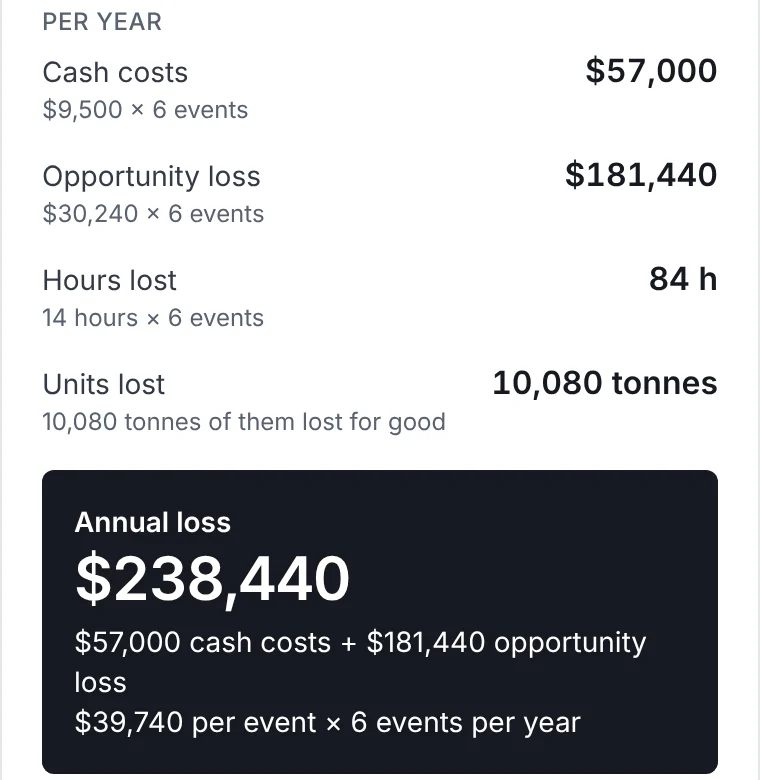
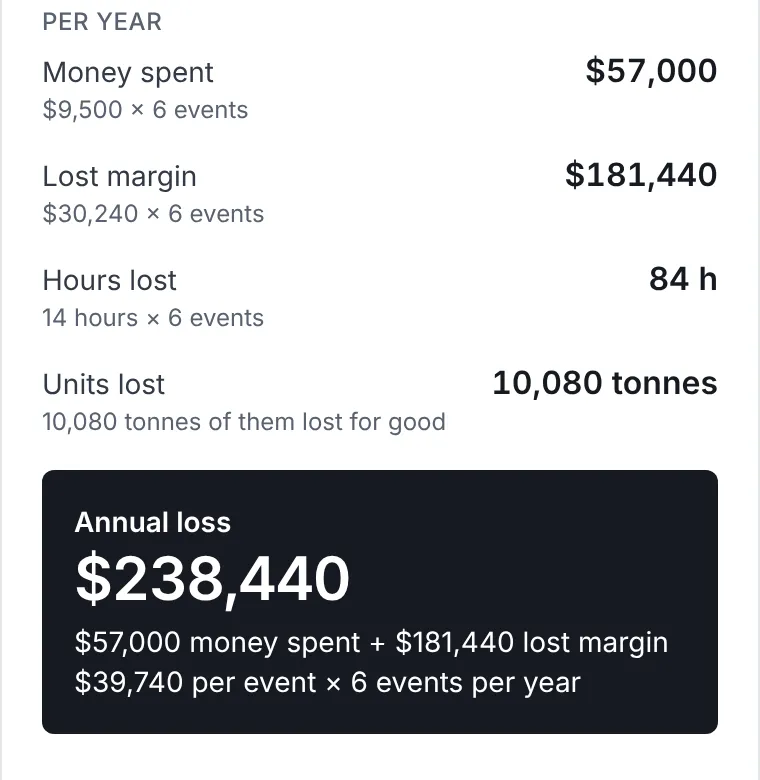
Retake landing images with new money labels; tidy wording, QA scripts, comments
Re-shot step-cost and step-verify from the sample investigation (same
size, crop, scale and format). Reworded the Other costs help text. Updated
qa/account.js and qa/demo.js assertions and code comments to the new terms.

Claude-Session: https://claude.ai/code/session_01B1Dz9UYZnVuDwjoWekutHf

Changed region(s): [[0.0303, 0.8, 0.9684, 1.0], [0.0605, 0.0615, 0.2724, 0.1231], [0.0605, 0.2154, 0.3632, 0.2462]]

diff --git a/qa/account.js b/qa/account.js
@@ -424,21 +424,21 @@ test('A-LOSS-1', 'Signed in: the new loss fields persist in the account and carr
     const v = async (k) => Number(await page.getByLabel(k + ' percent', { exact: true }).inputValue()); eq([await v('Lost for good'), await v('Made up later'), await v('Covered by buffer stock')], [48, 32, 20]);
     eq(await page.getByLabel('Recovery note (optional)').inputValue(), 'two Saturdays'); eq(await page.getByTestId('other-cost-line').count(), 2); eq(await page.getByTestId('annual-loss').innerText(), '$20,462');
   });
-  await sub('verify-report', 'Verify and Report show expected saving $12,641 (cash $8,801 + opportunity $3,840), payback 4.7 months', async () => {
-    await step(page, 'Verify'); const t = (await page.locator('dl').last().innerText()).replace(/\s+/g, ' ').toLowerCase(); ok(t.includes('expected saving (not yet verified) $12,641') && t.includes('cash $8,801 · opportunity $3,840') && t.includes('4.7 months'), t);
-    const r = (await e.reportText(page)).toLowerCase(); ok(r.includes('cash costs $2,200 $14,702') && r.includes('opportunity loss (240 units lost for good'.replace('units', 'pcs') + ' × $4) $960 $5,760') && r.includes('total $3,160 $20,462'), r.slice(0, 600));
+  await sub('verify-report', 'Verify and Report show expected saving $12,641 (money spent $8,801 + lost margin $3,840), payback 4.7 months', async () => {
+    await step(page, 'Verify'); const t = (await page.locator('dl').last().innerText()).replace(/\s+/g, ' ').toLowerCase(); ok(t.includes('expected saving (not yet verified) $12,641') && t.includes('money spent $8,801 · lost margin $3,840') && t.includes('4.7 months'), t);
+    const r = (await e.reportText(page)).toLowerCase(); ok(r.includes('money spent $2,200 $14,702') && r.includes('lost margin (240 units lost for good'.replace('units', 'pcs') + ' × $4) $960 $5,760') && r.includes('total $3,160 $20,462'), r.slice(0, 600));
   });
   const num = (t) => Number((/\$([\d,]+)/.exec(t) || [0, '0'])[1].replace(/,/g, ''));
-  const split = (t) => { const m = /Cash \$([\d,]+) · Opportunity \$([\d,]+)/.exec(t); return m ? [Number(m[1].replace(/,/g, '')), Number(m[2].replace(/,/g, ''))] : [0, 0]; };
+  const split = (t) => { const m = /Money spent \$([\d,]+) · Lost margin \$([\d,]+)/.exec(t); return m ? [Number(m[1].replace(/,/g, '')), Number(m[2].replace(/,/g, ''))] : [0, 0]; };
   const tiles = async () => { await page.goto(BASE + '/app'); await e.dashStats(page); return page.evaluate(() => [...document.querySelectorAll('section[aria-label="Totals"] > div')].map(d => d.innerText.replace(/\s+/g, ' '))); };
   await sub('dashboard', 'Account dashboard: the S3 row is $20,462 with split $14,702 / $5,760; the loss tile rises by exactly that; verified tile does not change until closed', async () => {
-    const after = await tiles(); const row = (await e.dashRows(page)).find(x => x.includes('LOSS-S3')); ok(row.includes('$20,462') && row.includes('Cash $14,702 · Opportunity $5,760'), row);
+    const after = await tiles(); const row = (await e.dashRows(page)).find(x => x.includes('LOSS-S3')); ok(row.includes('$20,462') && row.includes('Money spent $14,702 · Lost margin $5,760'), row);
     // baseline = tiles with the S3 investigation removed from the maths: compare against a second read after deleting nothing is impossible, so use the row-sum identity
-    const rows = await e.dashRows(page); let openSum = 0; for (const r of rows) { if (/Closed/.test(r)) continue; const m = /\$([\d,]+) Cash/.exec(r); if (m) openSum += Number(m[1].replace(/,/g, '')); }
-    eq(num(after[0]), openSum, 'loss tile = sum of non-closed row annual losses'); eq(split(after[0])[0] + split(after[0])[1], num(after[0]), 'cash + opportunity = tile'); ok(after[0].includes('$'), after[0]);
+    const rows = await e.dashRows(page); let openSum = 0; for (const r of rows) { if (/Closed/.test(r)) continue; const m = /\$([\d,]+) Money spent/.exec(r); if (m) openSum += Number(m[1].replace(/,/g, '')); }
+    eq(num(after[0]), openSum, 'loss tile = sum of non-closed row annual losses'); eq(split(after[0])[0] + split(after[0])[1], num(after[0]), 'money spent + lost margin = tile'); ok(after[0].includes('$'), after[0]);
     h.note('observation', 'A-LOSS-1 tiles before closing: ' + after.join(' | ')); globalThis.__savedBefore = [num(after[3]), ...split(after[3])];
   });
-  await sub('close-dashboard', 'After closing S3 the verified tile rises by exactly $12,641 (cash +$8,801, opportunity +$3,840) and the loss tile drops by $20,462', async () => {
+  await sub('close-dashboard', 'After closing S3 the verified tile rises by exactly $12,641 (money spent +$8,801, lost margin +$3,840) and the loss tile drops by $20,462', async () => {
     const before = globalThis.__savedBefore; const lossBefore = num((await tiles())[0]);
     await page.goto(BASE + '/app/investigations/' + id); await page.getByLabel('Title', { exact: true }).waitFor(); await step(page, 'Actions'); await f.setActionStatus(page, 0, 'Done');
     await f.fillVerify(page, { date: '2026-11-10', recurred: 'No, it has not recurred' }); await waitSaved(page); const t = await tiles();

diff --git a/qa/demo.js b/qa/demo.js
@@ -185,13 +185,13 @@ test('D-E2E-1', 'Full flow: new investigation, 7 steps, hand-checked numbers, da
   await sub('report', 'Report content matches data and hand-calculated figures', async () => {
     has(e.PROBLEM.title); has('Conveyor C-7 gearbox · Packing hall B · Event on 20 Oct 2026'); has('Status: Closed');
     has('Annual loss ' + money(calc.annual)); has('Annual saving (verified) ' + money(calc.saving)); has('Action cost ' + money(calc.actionCost)); has('Payback ' + e.months(calc.payback));
-    // round 2 report format (loss table). Hand calc: 660 cartons/event, 100% lost for good -> opportunity 660 x 2.5 = 1,650/event = 6,600/yr; cash = repair 1,800/event = 7,200/yr
+    // round 2 report format (loss table). Hand calc: 660 cartons/event, 100% lost for good -> lost margin 660 x 2.5 = 1,650/event = 6,600/yr; money spent = repair 1,800/event = 7,200/yr
     has('Each event stops production for 5.5 h at 120 cartons/h, so 660 cartons are not produced'); has('100% is lost for good, 0% is made up later and 0% is covered by buffer stock');
-    has('Cash: repair $1,800 $7,200'); has('Cash costs $1,800 $7,200'); has('Opportunity loss (660 cartons lost for good × $2.5) $1,650 $6,600'); has('Total $3,450 $13,800'); has('$13,800 per year in total');
+    has('Money spent: repair $1,800 $7,200'); has('Money spent $1,800 $7,200'); has('Lost margin (660 cartons lost for good × $2.5) $1,650 $6,600'); has('Total $3,450 $13,800'); has('$13,800 per year in total');
     for (const x of ['Oil sample report', 'Operator interview', 'Alignment check', 'Gearbox oil starved', 'Oil level not checked on rounds', 'Inspection route has no gearbox oil check', 'Coupling misaligned', 'No alignment spec in install procedure', 'Wrong grease used', 'Grease type not on lubrication chart']) has(x);
     has('Add gearbox oil check to daily route'); has('Sam Patel'); has('10 Jan 2026'); has('1 Mar 2027'); has('$1,200'); has('$951'); has('Total $2,151');
     has('Review date 10 Nov 2026'); has('No repeat in 3 weeks.');
-    has('Annual loss falls from $13,800 to $3,450: a saving of $10,350 per year (cash $5,400, opportunity $4,950) for an action cost of $2,151, paid back in 2.5 months'); ok(!repL.includes('not yet verified'), 'closed investigation still says not yet verified');
+    has('Annual loss falls from $13,800 to $3,450: a saving of $10,350 per year (money spent $5,400, lost margin $4,950) for an action cost of $2,151, paid back in 2.5 months'); ok(!repL.includes('not yet verified'), 'closed investigation still says not yet verified');
     eq(await page.locator('article.print-sheet h2:has-text("Root causes") + ol li').count(), 2, 'root cause list');
   });
   await sub('report-ruledout', 'Report marks ruled-out cause and category/evidence tags', async () => {

diff --git a/web/lib/finance.ts b/web/lib/finance.ts
@@ -93,25 +93,25 @@ export interface LossCalc {
   /** units never made up per year */
   unitsLostForGoodPerYear: number;
 
-  /** cash cost lines per event */
+  /** money spent lines per event */
   repairPerEvent: number;
   recoveryPerEvent: number;
   otherPerEvent: number;
-  /** cash per event = repair + recovery + other lines */
+  /** money spent per event = repair + recovery + other lines */
   cashPerEvent: number;
-  /** opportunity loss per event = units lost for good x margin per unit */
+  /** lost margin per event = units lost for good x margin per unit */
   lostMarginPerEvent: number;
   opportunityPerEvent: number;
-  /** total cost of one event = cash + opportunity (buffer holding is yearly, see below) */
+  /** total cost of one event = money spent + lost margin (buffer holding is yearly, see below) */
   costPerEvent: number;
 
   /** yearly cost of holding buffer stock (0 unless some production is covered by buffer) */
   bufferHoldingPerYear: number;
-  /** annual cash costs = cash per event x events + buffer holding */
+  /** annual money spent = money spent per event x events + buffer holding */
   annualCash: number;
-  /** annual opportunity loss = opportunity per event x events */
+  /** annual lost margin = lost margin per event x events */
   annualOpportunity: number;
-  /** annual loss = annual cash + annual opportunity (or the rough yearly estimate when nothing else costs a year) */
+  /** annual loss = annual money spent + annual lost margin (or the rough yearly estimate when nothing else costs a year) */
   annualLoss: number;
   /** true when annualLoss is the user's single rough yearly estimate, not built from the detailed figures */
   usesEstimate: boolean;
@@ -249,7 +249,7 @@ export interface VerifyCalc {
   annualLossBefore: number;
   annualLossAfter: number;
   annualSaving: number;
-  /** the same three figures, split into cash costs and opportunity loss */
+  /** the same three figures, split into money spent and lost margin */
   cashBefore: number;
   cashAfter: number;
   cashSaving: number;
@@ -354,7 +354,7 @@ export function verifiedHoursBack(
   return hoursBackPerYear(inv) ?? 0;
 }
 
-/** The verified saving split into cash and opportunity parts (each never below 0). */
+/** The verified saving split into money spent and lost margin parts (each never below 0). */
 export function verifiedSavingSplit(
   inv: Pick<Investigation, "loss" | "actions" | "verification">,
 ): { cash: number; opportunity: number } {

diff --git a/web/lib/types.ts b/web/lib/types.ts
@@ -109,7 +109,7 @@ export interface Loss {
   ratePerHour: number | null;
   unitName: string;
   marginPerUnit: number | null;
-  /** Simple default cash cost per event (parts, labour, contractors). */
+  /** Simple default money spent per event (parts, labour, contractors). */
   repairCost: number | null;
   currency: string;
   /** The user chose "Not known yet": no figures are used or shown until they add some. */
@@ -126,12 +126,12 @@ export interface Loss {
   shareMadeUp?: number;
   /** % of the lost production covered by buffer stock (no cost per event). */
   shareBuffer?: number;
-  /** Cash cost per event of making the production up later. */
+  /** Money spent per event on making the production up later. */
   recoveryCost?: number | null;
   recoveryNote?: string;
   /** Optional yearly cost of holding the buffer stock, attributed to this failure. */
   bufferHoldingCostPerYear?: number | null;
-  /** Extra cash costs per event, on top of the simple repair cost. */
+  /** Extra money spent per event, on top of the simple repair cost. */
   otherCosts?: OtherCost[];
 }
 

diff --git a/web/lib/options.ts b/web/lib/options.ts
@@ -99,7 +99,7 @@ export const DETERIORATION_OPTIONS: { value: Exclude<Deterioration, "">; label: 
 export const DETERIORATION_GUIDANCE =
   "Forced deterioration is removed by dealing with its cause. Natural deterioration is managed by inspection, condition monitoring and planned replacement.";
 
-/** Quick-add cash cost lines for process and quality losses. The user fills the amount. */
+/** Quick-add money spent lines for process and quality losses. The user fills the amount. */
 export const COST_PRESETS: { label: string; category: OtherCostCategory }[] = [
   { label: "Scrapped product", category: "scrap" },
   { label: "Rework", category: "other" },

diff --git a/web/components/workspace/steps/LossStep.tsx b/web/components/workspace/steps/LossStep.tsx
@@ -251,7 +251,7 @@ export function LossStep({ inv, update }: StepProps) {
 
         <SectionCard
           title="Other costs per event (optional)"
-          help="Anything else that one failure costs in money spent, on top of the repair cost above. Each line counts once per event."
+          help="Anything else that one failure costs, on top of the repair cost above. Each line counts once per event."
           right={
             <button
               type="button"
